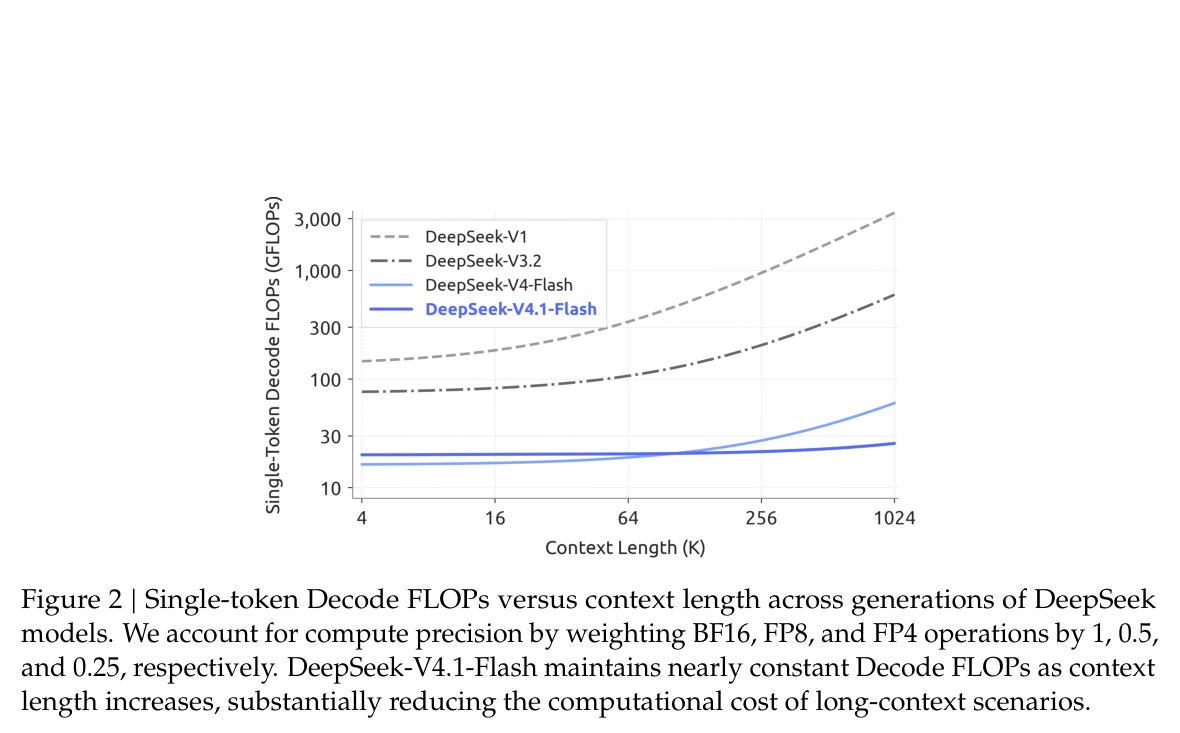
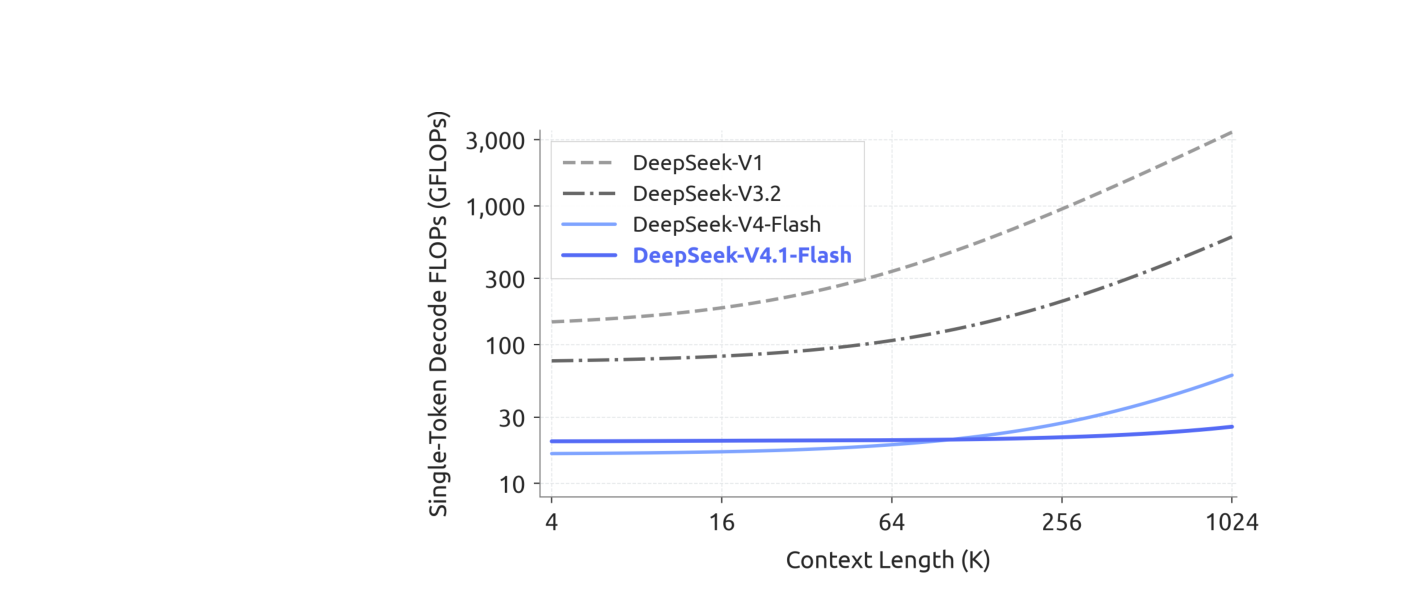
Add post: 20260910-deepseek-v41-flash (26 files)

diff --git a/_posts/2026-09-10-20260910-deepseek-v41-flash.md b/_posts/2026-09-10-20260910-deepseek-v41-flash.md
@@ -148,17 +148,54 @@ CSA2 为每个注意力层静态指定三种模式。它们都保留当前层自
 
 ## 4. 第三步：缓存小了之后，还要让模型与系统真的跑得动
 
-### 4.1 单 token 的 decode 曲线，来自一组叠加而非单点技巧
+### 4.1 Single-Pass mHC：瓶颈不在公式，而在同一份 activation 被反复搬运
 
-CED 主要处理 prefill，CSA2 主要处理全局 KV 与索引。报告还放入了几项不那么显眼、但会影响实际吞吐的设计：
+CED 主要削减 prefill，CSA2 主要削减全局 KV 与索引；但 decode 阶段还有另一类常被 FLOPs 掩盖的成本：**activation memory traffic**，也就是中间激活在 HBM 与计算单元之间被反复读写的流量。batch 很小、逐 token 生成时，算术单元未必是第一瓶颈，等内存数据到位反而可能更慢。
 
-- **Single-Pass mHC**：把当前 block 使用的输入混合系数改为前一个 block 产生的系数，解除 kernel fusion 的数据依赖。报告称 Mega-mHC 可将原实现的 activation memory traffic 减半。
-- **Engram**：把部分记忆能力放在稀疏访问的条件记忆模块中。它有 196B 参数，但并不意味着每个 token 都激活这些参数；表格里的 backbone parameters 和 activated parameters 也应与这类模块区分开看。
-- **DSpark**：用半自回归草稿生成和置信度调度验证做 speculative decoding，目标是减少真正需要目标模型逐 token 验证的次数。
+mHC 是 V4 已有的 residual-stream mixing 设计。普通 Transformer 可以粗略看成维护一条 residual stream；mHC 同时维护 $n$ 条，并为每个 token 预测三组混合系数 $A_l,B_l,C_l$，决定本层输入从哪些 stream 混合而来、旧 stream 如何更新。原始形式可以写成：
 
-这些组件不是 V4.1 Flash 最值得读的理论创新，但它们解释了一个现实：模型架构上的节省，只有落到 kernel、通信与内存访问上，才会成为服务成本上的节省。报告提到 CSA2 的 Reuse Mode 层在 prefill 使用 15 个 kernel、decode 使用 11 个 kernel；这是部署实现层面的指标，不该直接等同于任何硬件、任何 batch size 下的端到端延迟。
+$$
+X_{l+1}=B_lX_l+C_lF_l(A_lX_l),\qquad
+(A_l,B_l,C_l)=H(X_l).
+$$
 
-### 4.2 “Flash”不等于所有阶段都比前代少算
+$X_l$ 是第 $l$ 层的 $n$ 条 residual stream，$F_l$ 是这一层的 Transformer block，$H$ 则根据当前 $X_l$ 预测混合系数。问题不是这个式子本身，而是执行顺序被卡死：先更新 $X_l$，才能算 $H(X_l)$；算完 $H(X_l)$，才能用新得到的 $A_l$ 做输入混合。旧实现因此至少要按“残差更新 → 系数预测 → 输入混合”分多次读同一份激活，kernel 很难合并。
+
+Single-Pass mHC 把一个很小但关键的时间依赖向后挪一层：第 $l$ 层不再等 $A_l$，而使用前一层已经算好的 $A_{l-1}$：
+
+$$
+X_{l+1}=B_lX_l+C_lF_l(A_{l-1}X_l).
+$$
+
+这样读到 $X_l$ 的同一时刻，就能同时完成残差更新、输入混合，并累积下一层 $A_l,B_l,C_l$ 的预测所需统计量。报告的 Mega-mHC kernel 正是利用这个顺序把三个阶段融合为一次 traversal；按作者的读写量计算，activation traffic 从原实现的 $(4n+4)d$ 降到 $(2n+2)d$，约减半。这里并不是“少了一次 Transformer 计算”，而是减少了中间向量在显存里来回搬运。
+
+这个设计的取舍也很具体：当前 block 用到的混合系数比原来滞后一层。报告称实测性能损失可以忽略，但训练阶段仍沿用多 kernel 的实现；真正把 Single-Pass 用到极致的是部署阶段。这说明它更像为推理 kernel 解依赖的系统改写，而不是为了训练提出的新表达能力。
+
+### 4.2 Engram 与 DSpark：一个把记忆从主干计算旁路出去，一个缩短真正的自回归路径
+
+**Engram 不是 KV Cache。**KV Cache 保存的是当前这条上下文已经算出的注意力状态；Engram 是额外的条件记忆模块，试图把“见过的局部模式”从每个 token 都要经过的 MoE 主干中分出来。报告的实现会先压缩 token，再对 $2$、$3$、$4$-gram 通过多头哈希寻址，从 embedding table 取回若干候选记忆；随后由上下文相关的 gate 决定拿多少、怎样同主干表示融合。
+
+为什么这会影响推理系统？报告将 196B Engram 参数分在两个模块中，放在第 1 和第 14 层；但这些表不是每个 token 都全量读取。哈希地址是确定的，因此系统可以在 host memory 中预取对应 embedding，并用后台 RDMA 与前面 Transformer block 的计算重叠。换句话说，它把一部分“记住 n-gram 局部规律”的工作变成稀疏查表和预取，目标是让主干参数更多服务于组合、推理和上下文建模。
+
+这条路径也有边界：哈希寻址与外部表带来碰撞、预取命中和主机内存带宽等新依赖，报告没有给出单独的 Engram 消融来量化这些条件分别贡献多少。因此更稳妥的理解是，Engram 为参数规模和激活规模之间增加了一层可稀疏访问的记忆，而不是证明“外部记忆一定比主干权重更有效”。
+
+**DSpark** 则解决输出端的自回归串行性。常规 speculative decoding 的思路是：小 draft model 先猜多个 token，大模型一次验证，猜对的部分就跳过逐 token 生成。V4.1 的 drafter 只有 3 个 Transformer block，局部 attention window 为 128；一次前向会并行给出未来 5 个 draft position 的基础 logits，再用轻量 Markov head 补充这些 draft token 之间的依赖。
+
+真正有意思的是它没有固定“每次验证 5 个”。DSpark 还训练了 confidence head，预测每个候选位置在此前 token 被接受的条件下、自己会被接受的概率；把这些概率连乘可以得到不同 draft 前缀的存活概率。scheduler 再结合离线测得的引擎吞吐曲线，为每个请求动态选验证长度，目标是当前负载下的**系统总 token throughput**，而不只是让单个请求尽量激进地多猜。
+
+训练顺序也说明了它是一个服务模块：backbone pre-training 结束后，先冻结 backbone 单独训练 DSpark；post-training 时两者一起更新，但 DSpark 的目标不向 backbone 反传梯度。这样 DSpark 能跟上 RL 后不断变化的策略，同时不让“更容易被验证”这件事改变主模型的能力目标。draft 猜错仍会带来验证浪费，因此收益依赖接受率、验证 kernel 和在线负载；这正是 scheduler 需要存在的原因。
+
+### 4.3 FP4 与 EPD：把压缩后的缓存放到正确的位置
+
+前面说 CSA2 减少了要保存多少份全局 KV，FP4 Main KV Cache 则继续减少每一份占多少字节。报告把量化感知训练从 indexer 的 Q/K 扩展到 main KV：main KV 用 OCP MXFP4 格式的 E2M1 表示，每 16 个 channel 共用一个 E4M3 scale；真正做 attention 前再反量化。这样不要求硬件原生支持该 FP4 格式的矩阵乘，主要收益是存储布局更小。
+
+这里有个不能混淆的细节：**只有 main KV 被压到 FP4，SWA KV 仍保留 FP8。**作者认为局部窗口状态对量化更敏感；相对 V4 的 FP8 main KV，FP4 大约再减半 main KV 的 HBM 与 SSD 占用。报告还给出数值范围的理由：训练中观察到的 main KV 幅值约为 10，而该格式在所用 scale 下的范围仍有余量。不过这依然是 QAT 和该模型分布下的结论，不能外推成“所有 KV 都可以直接用四比特”。
+
+最后是部署切分。报告采用 Encoder–Prefill–Decode（EPD）disaggregation：视觉编码、读入 prompt、逐 token 生成可以由独立资源池扩缩容并重叠执行。持久化缓存只长期保留全局 KV，报告称至少保留 72 小时；SWA KV 转到每机约 10% host DRAM 的短 TTL 分布式池中，仅服务活跃会话。短期状态丢了就触发 Bounded Replay，而不是从 SSD 恢复完整 SWA。到这一层，CED、CSA2、FP4 和 replay 才真正接上同一条链：少算、少存、少搬，并把不可避免的 miss 降成一次有限范围的重算。
+
+报告提到 CSA2 的 Reuse Mode 层在 prefill 使用 15 个 kernel、decode 使用 11 个 kernel；这是部署实现层面的指标，不该直接等同于任何硬件、任何 batch size 下的端到端延迟。
+
+### 4.4 “Flash”不等于所有阶段都比前代少算
 
 下面这张 base model 表也值得看，因为它纠正了一个过于简单的叙事。V4.1 Flash 的 backbone 有 552B 参数，明显大于 V4-Flash Base 的 284B；decode 激活参数是 16B，也高于 V4-Flash 的 13B。它所换来的，是 prefill 时只激活 8B，以及更小的 KV footprint。
 
